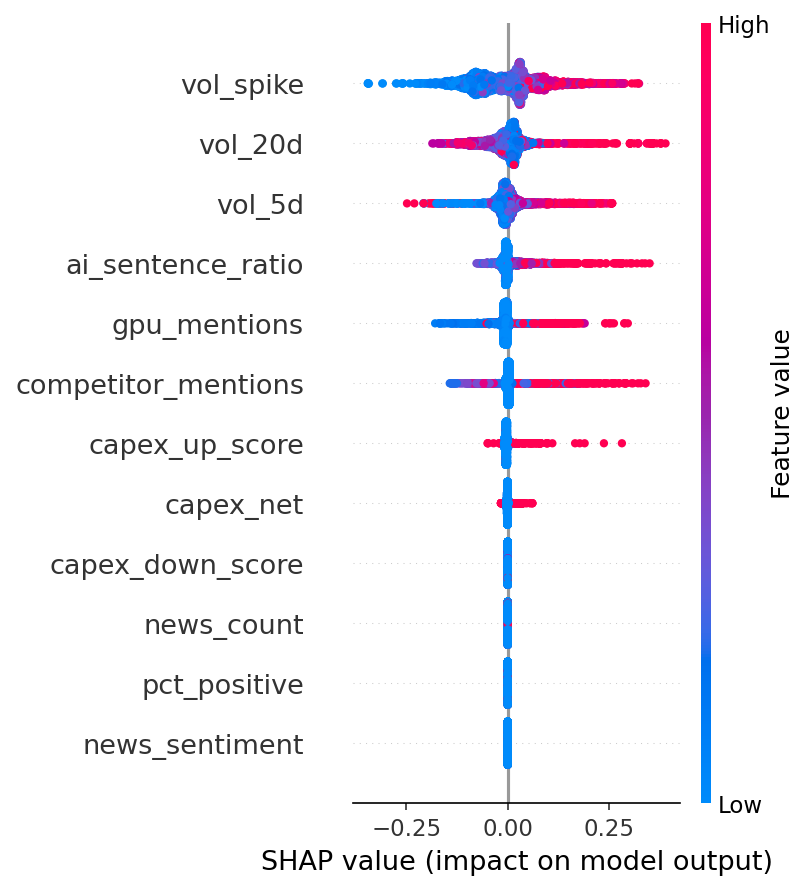
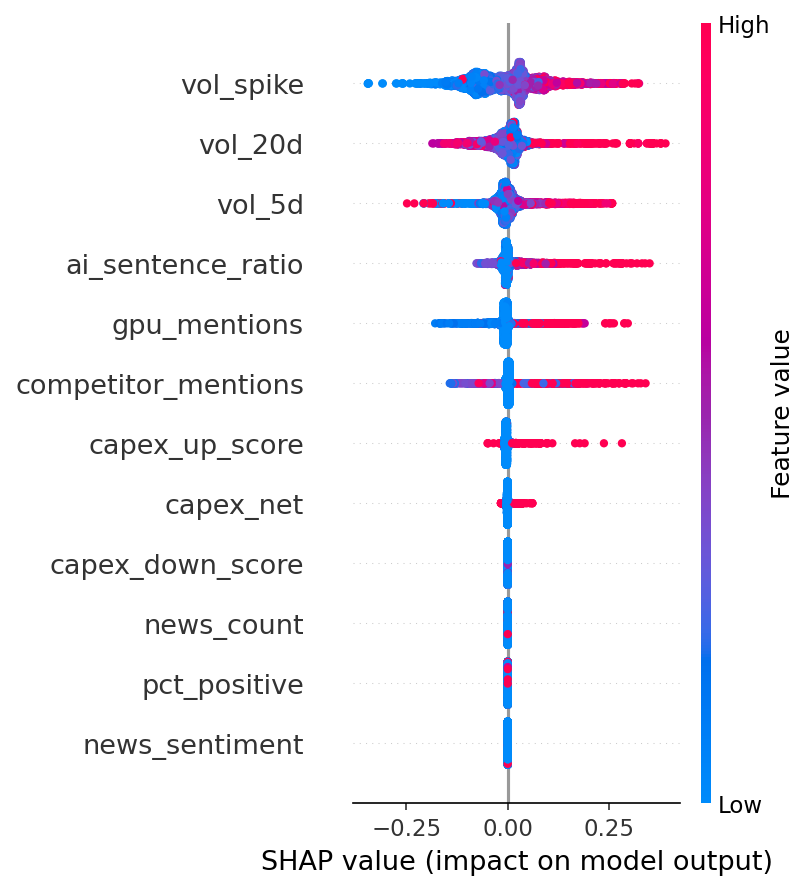
fix date

diff --git a/app.py b/app.py
@@ -3,13 +3,12 @@ import streamlit as st
 import lightgbm as lgb
 import pandas as pd
 import numpy as np
+import yfinance as yf
+import plotly.graph_objects as go
 from sklearn.metrics import accuracy_score
 from sklearn.model_selection import TimeSeriesSplit
 from datetime import date, timedelta
-import yfinance as yf
-import streamlit as st
-import yfinance as yf
-import plotly.graph_objects as go
+
 
 # Next 5 Days Graph
 def make_splits(df, n_splits=5, target_col='target', gap_days=21):
@@ -68,7 +67,6 @@ def train_evaluate(splits):
         acc = accuracy_score(y_te, probs > 0.5)
 
         # volatile threshold
-        vol_5d_thresh   = np.percentile(test_df['vol_5d'],   70)
         signals = np.where(probs > 0.52, 1, np.where(probs < 0.48, -1, 0))
         strat_returns = signals * asset_returns
         excess_returns = strat_returns - (0.04 / 52) # assume 4% annual risk-free rate; 52 trading periods
@@ -85,11 +83,6 @@ def train_evaluate(splits):
         all_results.append({'fold': fold_num+1, 'IC': round(ic,4), 'accuracy': round(acc,4), 'sharpe': round(sharpe, 4),\
                             'Accuracy on >2% moves': round(correct_big_moves, 3)})
         X_te = X_te.fillna(0)
-
-        baseline_ic = np.corrcoef(X_te['vol_5d'], y_te)[0,1]
-        # Directional accuracy of baseline (vol_5d only)
-        baseline_preds = (X_te['vol_5d'] > X_te['vol_5d'].median()).astype(int)
-        baseline_acc = accuracy_score(y_te, baseline_preds)
         
     return pd.DataFrame(all_results), model, X_te, y_te
 
@@ -209,7 +202,7 @@ fig.add_vline(
 )
 
 fig.update_layout(
-    title=f'AI Sector Stock Rankings — Next 5 Trading Days<br>{latest.index.get_level_values("Date").unique()[0].date()}',
+    title=f'AI Sector Stock Rankings — Next 5 Trading Days<br>{latest.index.get_level_values('Date').max().date()}',
     xaxis_title='Predicted Outperformance Probability',
     xaxis=dict(range=[0, 0.75]),
     height=600,
@@ -257,3 +250,7 @@ st.plotly_chart(fig, use_container_width=True)
 # SHAP chart
 st.subheader("What drives predictions: SHAP feature importance")
 st.image('outputs/shap_summary.png')
+
+print(latest.index.get_level_values('Date').unique())
+print(latest.index.get_level_values('Date').max())
+print(type(latest.index.get_level_values('Date').max()))